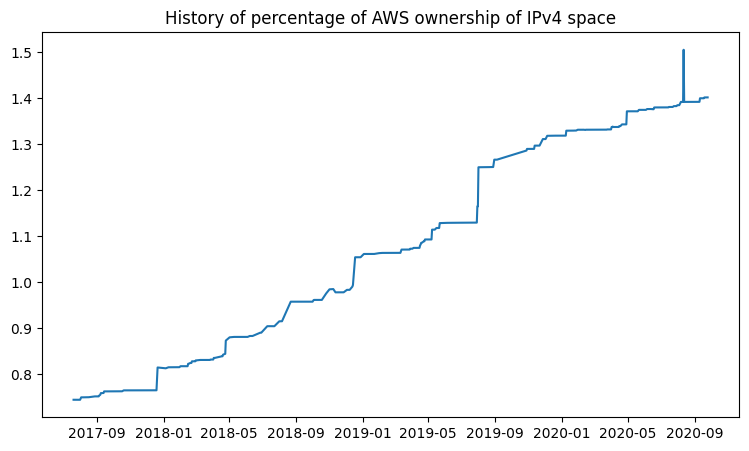
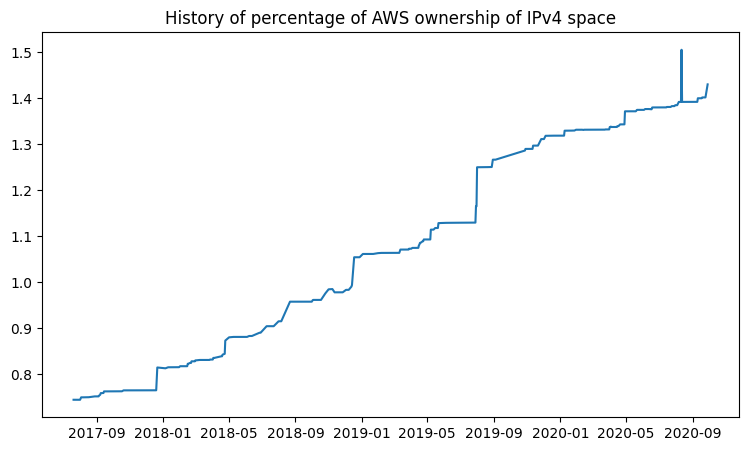
Update data files

diff --git a/README.md b/README.md
@@ -14,6 +14,7 @@ address space AWS is in control of.
 
 | | Percent | IPs | Change | CIDRs |
 | :--- | ---: | ---: | ---: | :--- |
+| 2020-09-28 13:51:16 | 1.42963 | 52928471 | +1048576 | +35.80.0.0/12 |
 | 2020-09-24 20:21:16 | 1.40130 | 51879895 | +3072 | +209.54.176.0/21, +99.83.72.0/22 |
 | 2020-09-24 19:21:16 | 1.40122 | 51876823 | +32 | +13.34.28.224/27 |
 | 2020-09-24 16:21:17 | 1.40122 | 51876791 | 0 |  |
@@ -28,7 +29,6 @@ address space AWS is in control of.
 | 2020-09-22 14:41:16 | 1.40121 | 51876361 | 0 |  |
 | 2020-09-21 20:21:16 | 1.40121 | 51876361 | +68 | +13.34.28.64/26, +52.93.240.190/31, +52.93.240.192/31 |
 | 2020-09-18 21:51:15 | 1.40121 | 51876293 | +256 | +15.230.136.0/24 |
-| 2020-09-18 17:51:17 | 1.40120 | 51876037 | +65536 | +13.50.0.0/16 |
 
 
 # 15 largest changes to date:
@@ -42,6 +42,7 @@ address space AWS is in control of.
 | 2017-12-21 20:12:10 | 0.81440 | 30151184 | +1703936 | +18.208.0.0/13, +18.204.0.0/14, +18.224.0.0/14, ... |
 | 2018-08-22 21:22:35 | 0.95738 | 35444840 | +1572864 | +3.80.0.0/12, +3.16.0.0/14, +3.40.0.0/14 |
 | 2019-07-30 16:43:04 | 1.16456 | 43114908 | +1310720 | +3.192.0.0/12, +15.222.0.0/15, +15.236.0.0/15 |
+| 2020-09-28 13:51:16 | 1.42963 | 52928471 | +1048576 | +35.80.0.0/12 |
 | 2020-04-29 00:13:11 | 1.37105 | 50759849 | +1048576 | +35.72.0.0/13, +65.0.0.0/14, +13.212.0.0/15, ... |
 | 2018-04-25 16:16:17 | 0.86887 | 32167704 | +917504 | +100.24.0.0/13, +63.32.0.0/14, +99.80.0.0/15 |
 | 2019-10-28 01:03:09 | 1.28580 | 47603480 | +732413 | +3.136.0.0/13, +18.166.0.0/15, +18.252.0.0/16, ... |
@@ -49,7 +50,6 @@ address space AWS is in control of.
 | 2019-07-18 21:23:05 | 1.12920 | 41805914 | +655224 | +52.208.0.0/14, +52.214.0.0/15, +52.213.0.0/16, ... |
 | 2019-07-18 20:23:05 | 1.11150 | 41150690 | -655224 | -52.208.0.0/14, -52.214.0.0/15, -52.213.0.0/16, ... |
 | 2019-11-27 16:53:10 | 1.31075 | 48527380 | +524288 | +3.20.0.0/14, +3.128.0.0/15, +3.12.0.0/16, ... |
-| 2018-10-26 19:33:24 | 0.97541 | 36112106 | +524288 | +108.128.0.0/13 |
 
 
 [![RSS Icon](rss-icon.png)RSS Feed](https://raw.githubusercontent.com/seligman/aws-ip-ranges/master/rss.xml)
